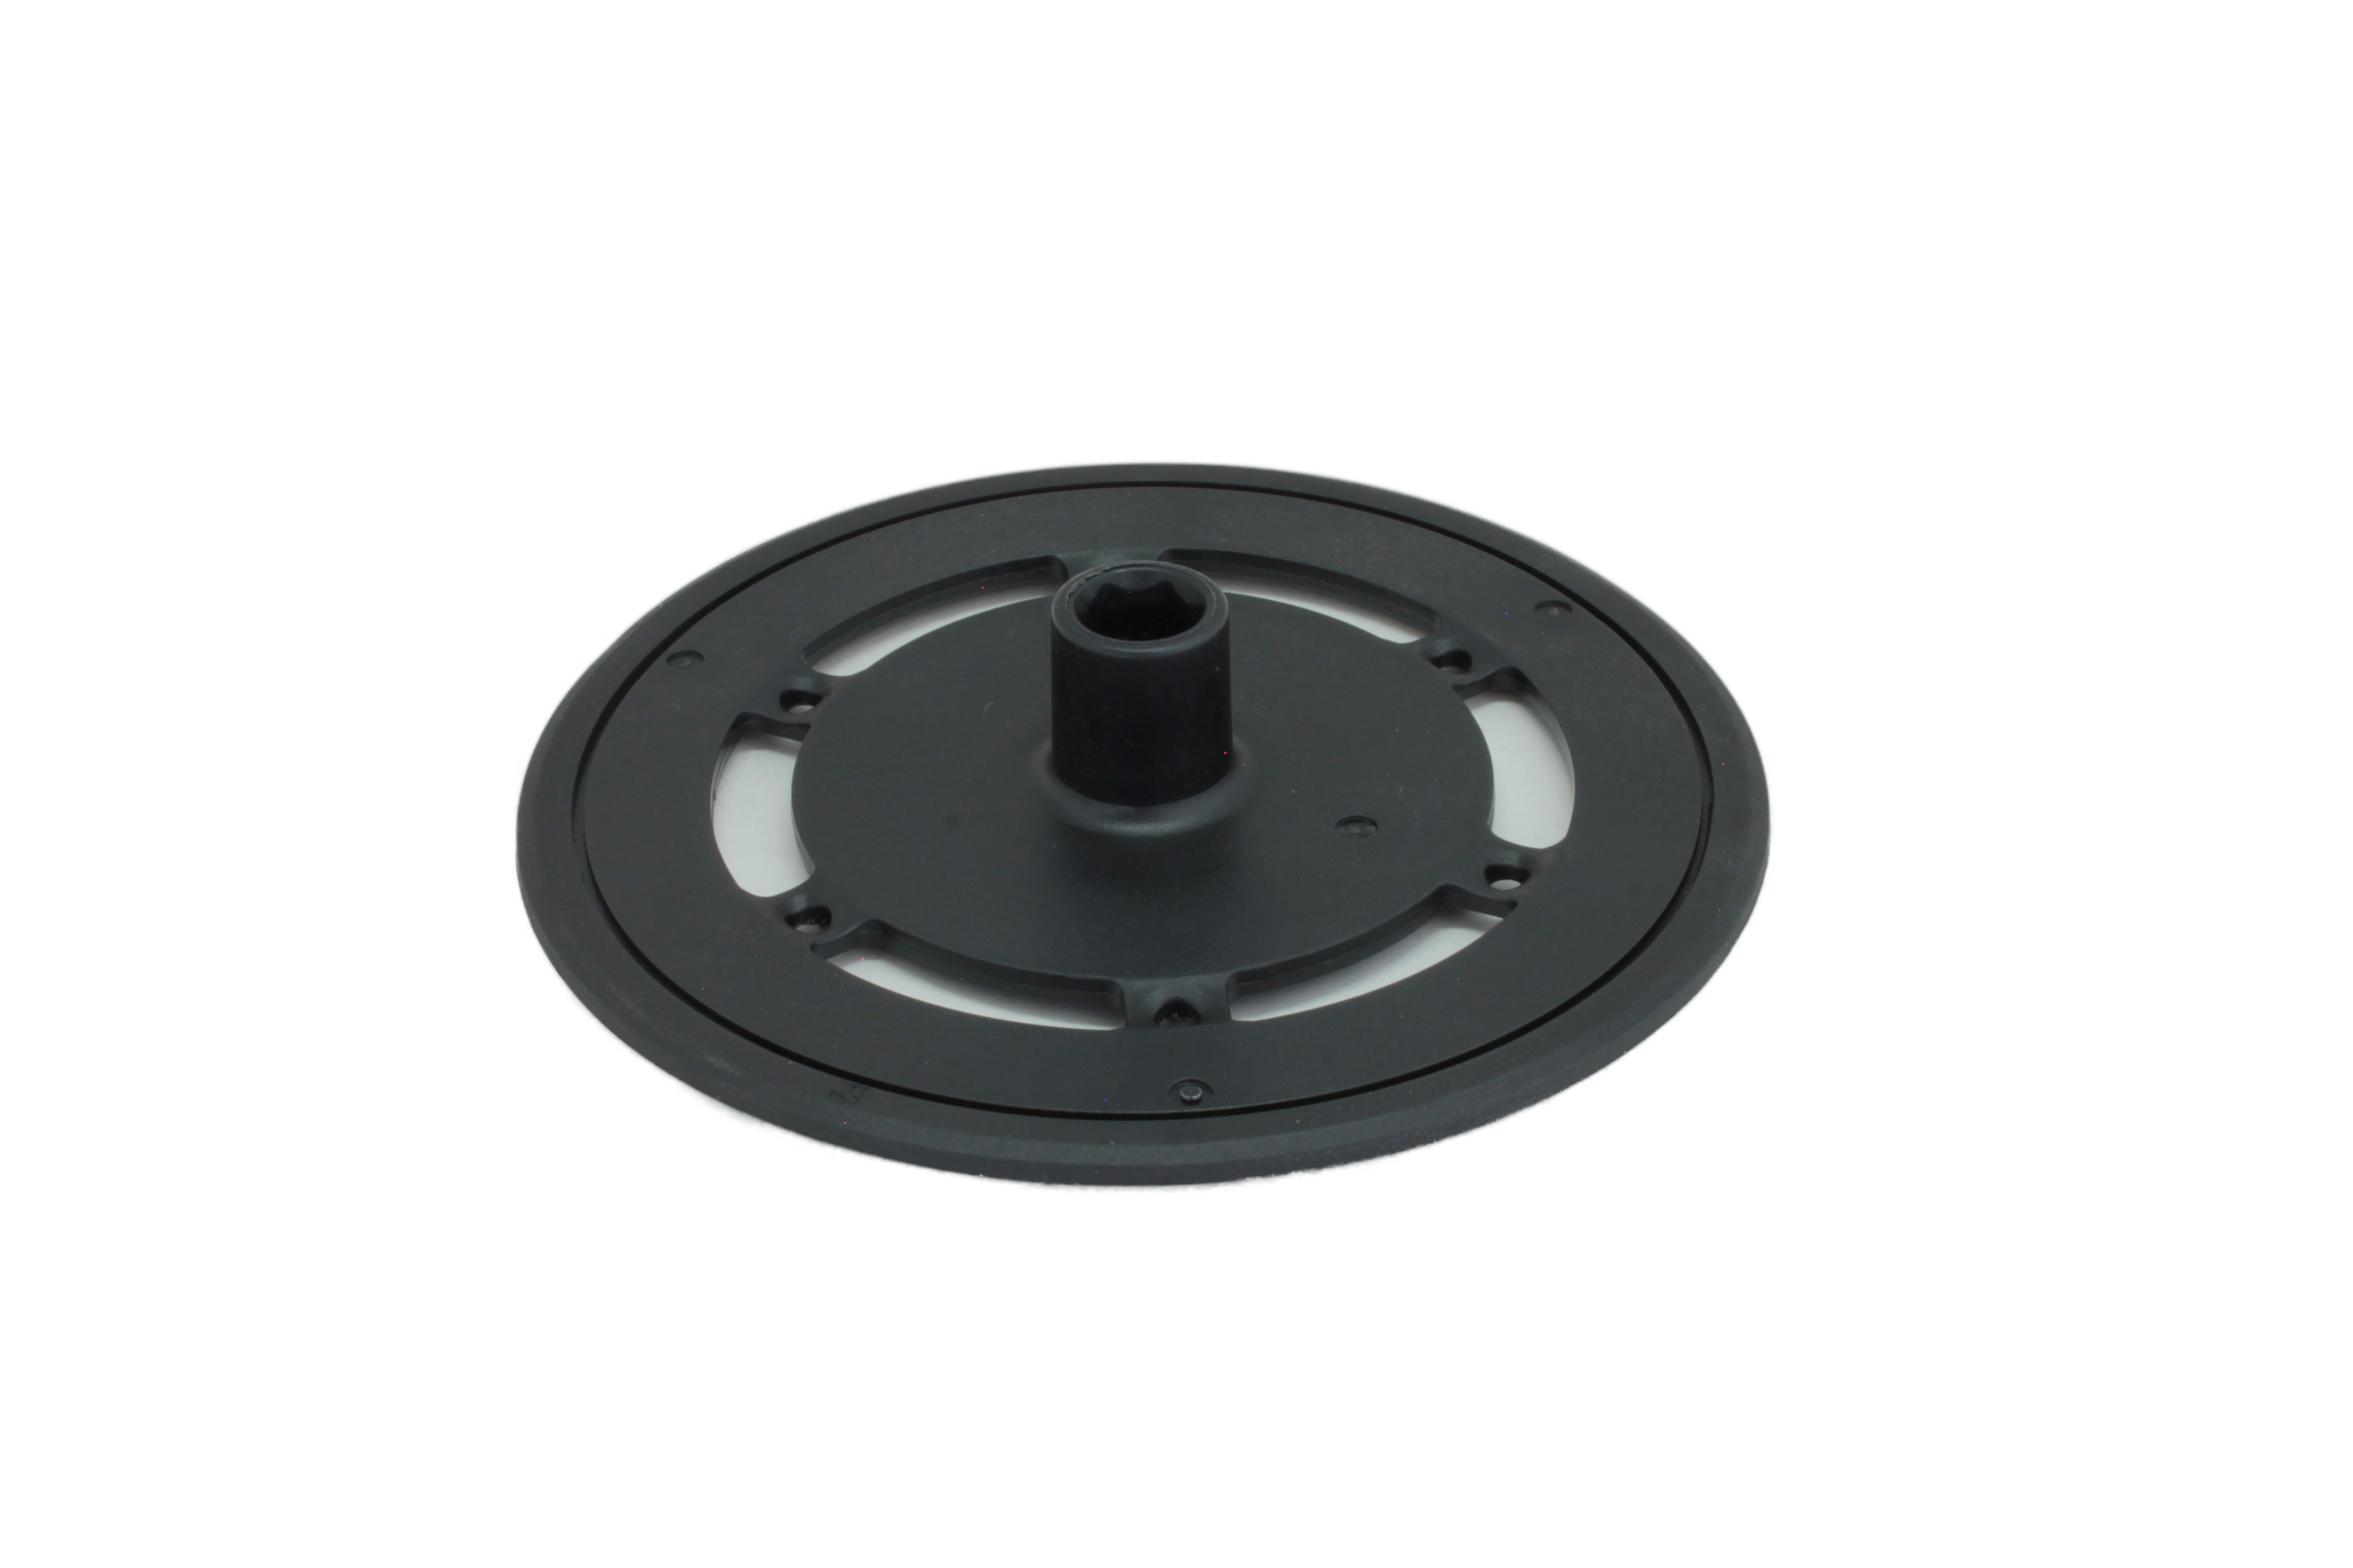
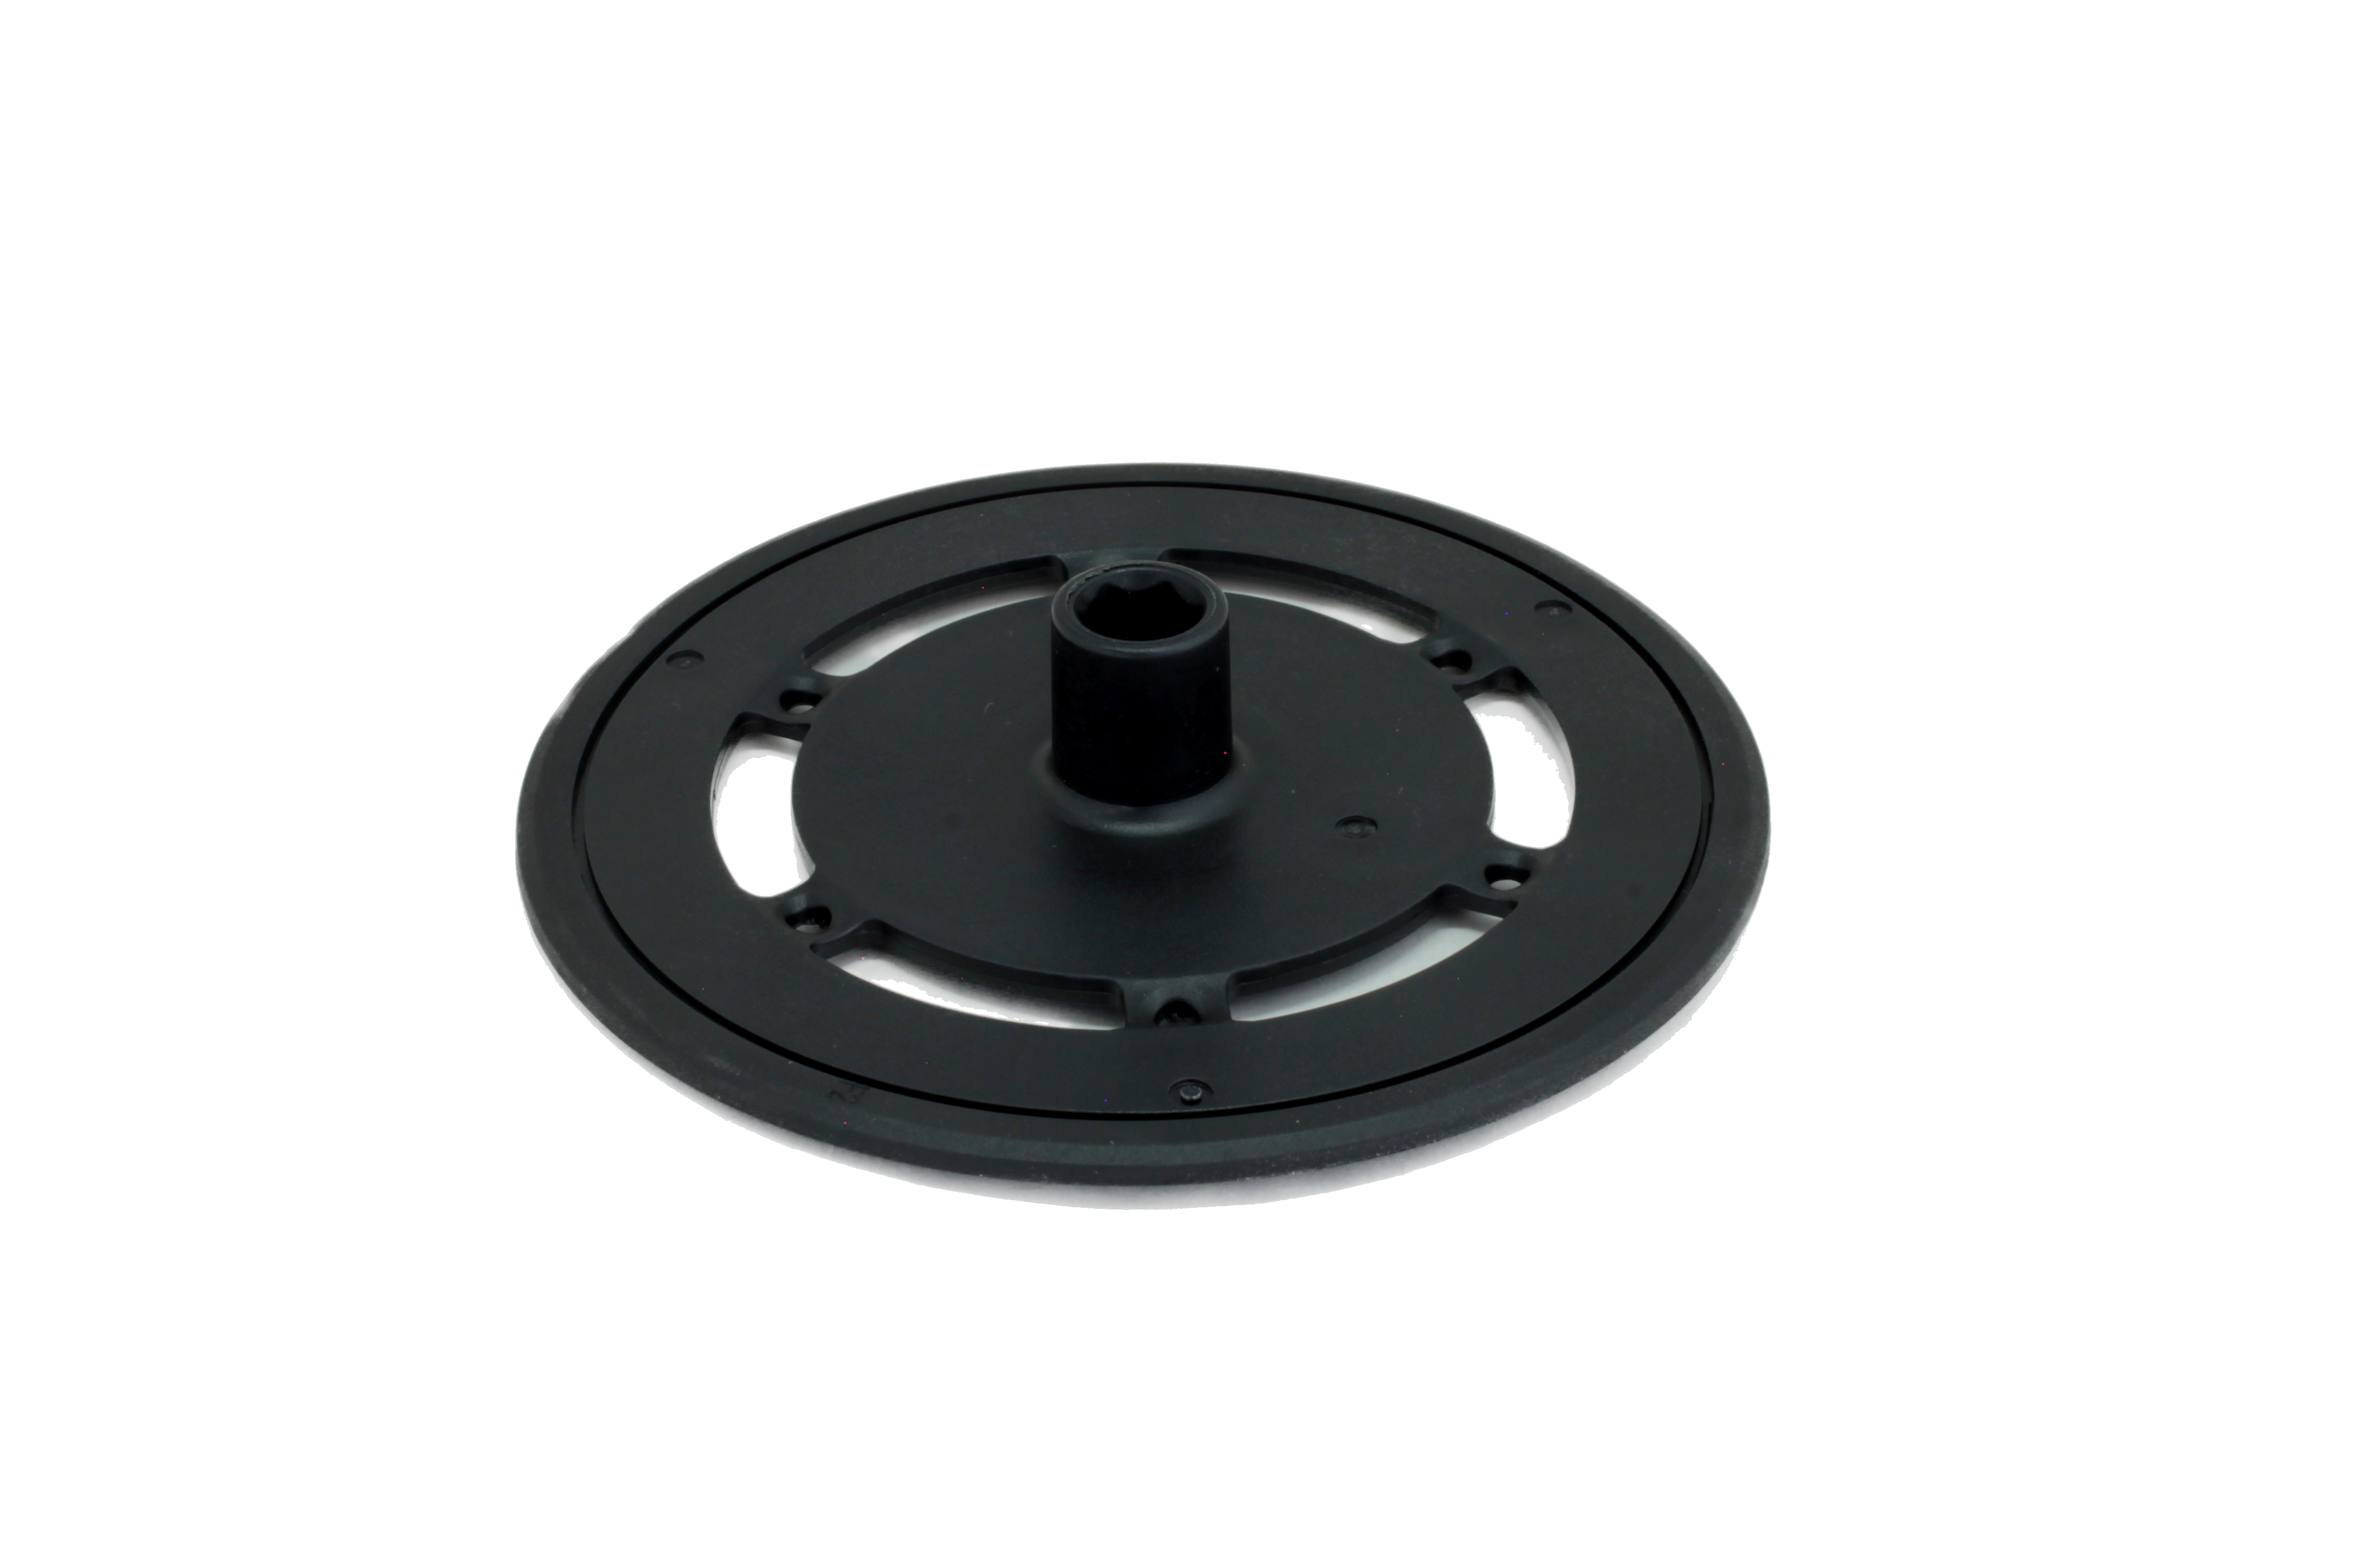
carvekit cuda added and works

diff --git a/CarveKit_CUDA.py b/CarveKit_CUDA.py
@@ -1,59 +1,54 @@
-import PIL.Image
+from PIL import Image, ImageEnhance
+import cv2
 from carvekit.api.interface import Interface
 from carvekit.ml.wrap.fba_matting import FBAMatting
-from carvekit.ml.wrap.scene_classifier import SceneClassifier
-from carvekit.ml.wrap.cascadepsp import CascadePSP
 from carvekit.ml.wrap.tracer_b7 import TracerUniversalB7
-from carvekit.pipelines.postprocessing import CasMattingMethod
-from carvekit.pipelines.preprocessing import AutoScene
+from carvekit.pipelines.postprocessing import MattingMethod
+from carvekit.pipelines.preprocessing import PreprocessingStub
 from carvekit.trimap.generator import TrimapGenerator
 
-# Используем GPU для максимального качества обработки
+
+
+def enhance_contrast(input_image_path, method='pil', contrast_factor=1.12, clip_limit=2.0, tile_grid_size=(8, 8)):
+    if method == 'pil':
+        # Метод PIL для изменения контраста
+        image = Image.open(input_image_path)
+        enhancer = ImageEnhance.Contrast(image)
+        enhanced_image = enhancer.enhance(contrast_factor)
+    elif method == 'opencv':
+        # Метод OpenCV для изменения контраста
+        image = cv2.imread(input_image_path)
+        lab = cv2.cvtColor(image, cv2.COLOR_BGR2LAB)
+        l, a, b = cv2.split(lab)
+        clahe = cv2.createCLAHE(clipLimit=clip_limit, tileGridSize=tile_grid_size)
+        cl = clahe.apply(l)
+        limg = cv2.merge((cl, a, b))
+        enhanced_image = cv2.cvtColor(limg, cv2.COLOR_LAB2BGR)
+        enhanced_image = Image.fromarray(cv2.cvtColor(enhanced_image, cv2.COLOR_BGR2RGB))
+
+    return enhanced_image
+
+
+# Используем GPU для обработки
 device = 'cuda'
 
-# Объявляем компоненты с использованием GPU и максимальных настроек качества
-seg_net = TracerUniversalB7(device=device, batch_size=1, fp16=False)
+# Настройка компонентов с параметрами для максимального качества
+seg_net = TracerUniversalB7(device=device, batch_size=1, fp16=False)  # Точная сегментация
+fba = FBAMatting(device=device, input_tensor_size=3072, batch_size=1, fp16=False)  # Высокое разрешение
+trimap = TrimapGenerator(prob_threshold=251, kernel_size=80, erosion_iters=30)  # Настройки тримапа
 
-cascade_psp = CascadePSP(
-    device=device,
-    batch_size=1,
-    input_tensor_size=2048,  # Увеличенный размер тензора для лучшего качества
-    fp16=False,
-    processing_accelerate_image_size=4096,  # Увеличенный размер для ускоренной обработки
-    global_step_only=False  # Используем все шаги для максимальной точности
-)
 
-fba = FBAMatting(
-    device=device,
-    input_tensor_size=4096,  # Максимальный размер тензора для наилучшего качества
-    batch_size=1,
-    fp16=False
-)
+preprocessing = PreprocessingStub()
 
-trimap = TrimapGenerator(
-    filter_threshold=-1,
-    prob_threshold=255,  # Максимальный порог вероятности для минимального шума
-    kernel_size=50,  # Увеличенный размер ядра для более точной маски
-    erosion_iters=10  # Увеличенное количество итераций эрозии для более детальной маски
-)
-
-scene_classifier = SceneClassifier(
-    device=device,
-    batch_size=1  # Небольшой размер пакета для улучшенной точности
-)
-
-preprocessing = AutoScene(scene_classifier=scene_classifier)
-
-postprocessing = CasMattingMethod(
-    refining_module=cascade_psp,
-    matting_module=fba,
-    trimap_generator=trimap,
-    device=device
-)
+postprocessing = MattingMethod(matting_module=fba, trimap_generator=trimap, device=device)
 
 interface = Interface(pre_pipe=preprocessing, post_pipe=postprocessing, seg_pipe=seg_net)
 
-images_without_background = interface(['/Users/petrkulikov/spare_parts/201-2102-2454.JPG'])
+# Загрузка и обработка изображения
+image = enhance_contrast("201-2102-2454.JPG")
+cat_wo_bg = interface([image])[0]
+cat_wo_bg.save('sample2.png')
 
-picture_without_background = images_without_background[0]
-picture_without_background.save("sample22.png")
+image = enhance_contrast('201-1816-0027.JPG')
+cat_wo_bg = interface([image])[0]
+cat_wo_bg.save('sample9.png')

diff --git a/CUDA_TORCH.py b/CUDA_TORCH.py
@@ -1,0 +1,18 @@
+import torch
+from carvekit.api.high import HiInterface
+
+# Check doc strings for more information
+interface = HiInterface(object_type="object",  # Can be "object" or "hairs-like".
+                        batch_size_seg=4000,
+                        batch_size_matting=1,
+                        device='cuda',
+                        seg_mask_size=320,  # Use 640 for Tracer B7 and 320 for U2Net
+                        matting_mask_size=3072,
+                        trimap_prob_threshold=253,
+                        trimap_dilation=30,
+                        trimap_erosion_iters=250,
+                        fp16=False)
+
+image = interface(['201-2102-2454.JPG'])
+img_wo_bg = image[0]
+img_wo_bg.save('CUDA2.png')

diff --git a/test.py b/test.py
@@ -1,0 +1,1 @@
+from carvekit.ml.wrap.scene_classifier import SceneClassifier
